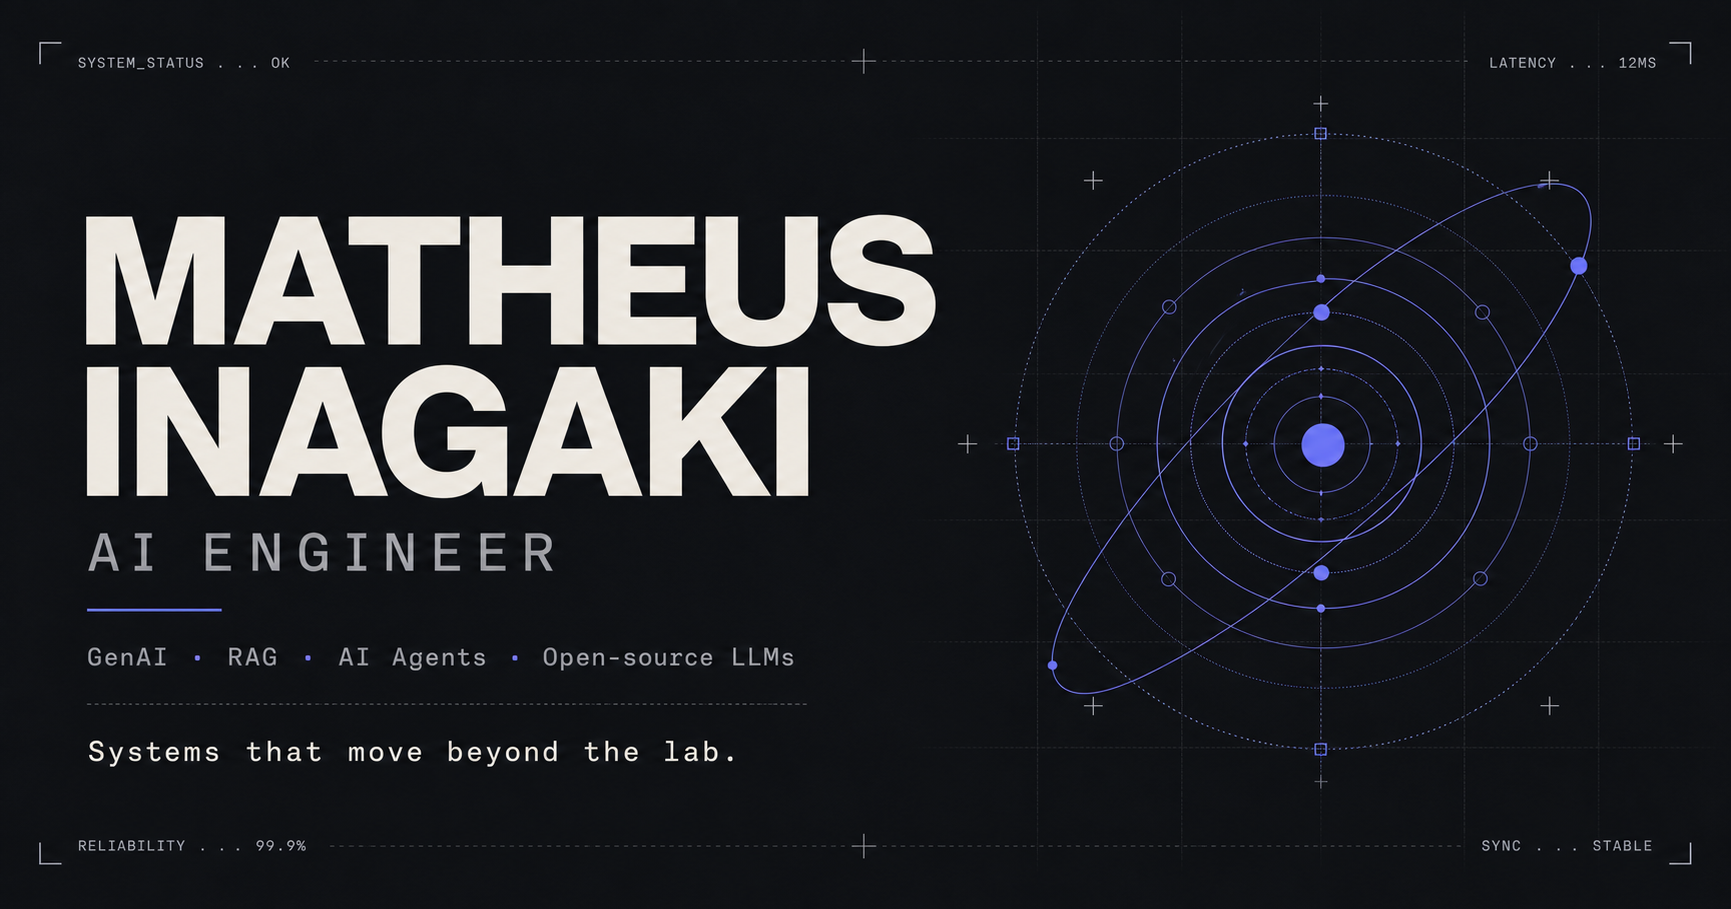
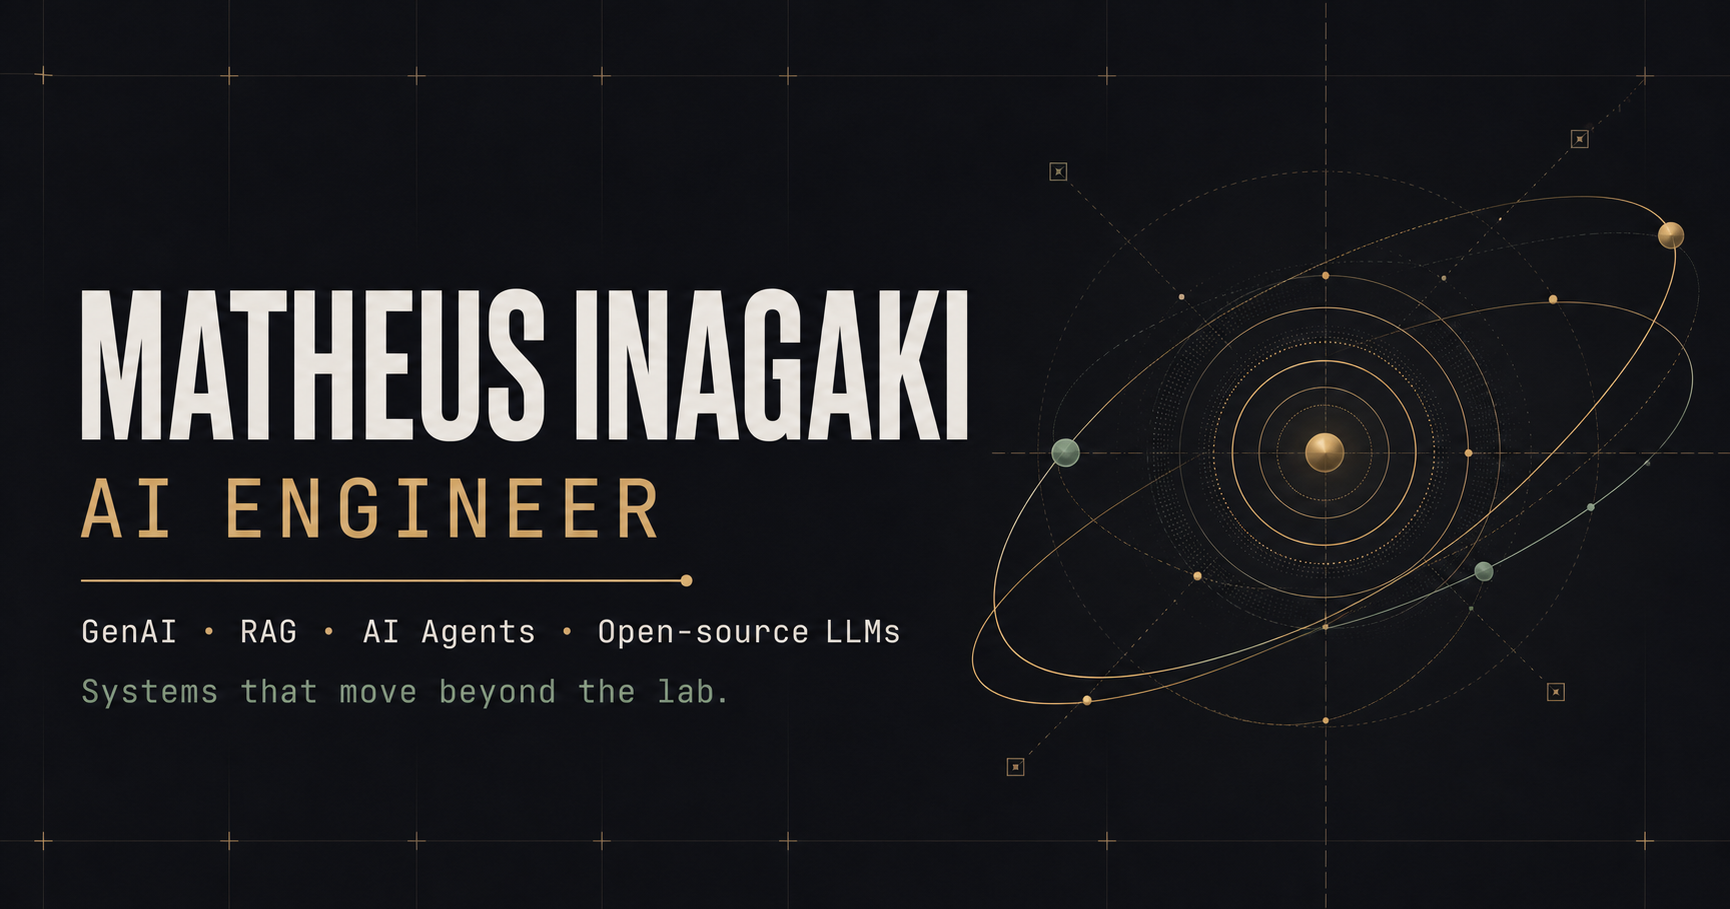
Refine palette and interactive timeline

diff --git a/app/globals.css b/app/globals.css
@@ -10,18 +10,20 @@
   --muted-strong: #b8bdc7;
   --line: rgba(242, 241, 237, 0.1);
   --line-strong: rgba(242, 241, 237, 0.2);
-  --accent: #8995ff;
-  --accent-strong: #aab2ff;
-  --accent-soft: rgba(137, 149, 255, 0.12);
-  --accent-contrast: #0b0c10;
+  --accent: #e2b66f;
+  --accent-strong: #f1cf94;
+  --accent-soft: rgba(226, 182, 111, 0.13);
+  --accent-secondary: #8eae99;
+  --accent-secondary-soft: rgba(142, 174, 153, 0.13);
+  --accent-contrast: #17130d;
   --header: rgba(11, 12, 16, 0.78);
   --grid: rgba(242, 241, 237, 0.035);
-  --glow: rgba(112, 126, 255, 0.17);
+  --glow: rgba(142, 174, 153, 0.15);
   --shadow: 0 30px 90px rgba(0, 0, 0, 0.34);
   --card-hover: rgba(255, 255, 255, 0.025);
   --switch-bg: #eeede9;
   --switch-text: #111218;
-  --contact: #4d59d7;
+  --contact: #405a4a;
   --max: 1240px;
 }
 
@@ -35,18 +37,20 @@
   --muted-strong: #444a55;
   --line: rgba(23, 24, 29, 0.1);
   --line-strong: rgba(23, 24, 29, 0.19);
-  --accent: #4a5be7;
-  --accent-strong: #3144d7;
-  --accent-soft: rgba(74, 91, 231, 0.1);
+  --accent: #a8622f;
+  --accent-strong: #874820;
+  --accent-soft: rgba(168, 98, 47, 0.1);
+  --accent-secondary: #527562;
+  --accent-secondary-soft: rgba(82, 117, 98, 0.11);
   --accent-contrast: #ffffff;
   --header: rgba(245, 244, 240, 0.82);
   --grid: rgba(23, 24, 29, 0.045);
-  --glow: rgba(74, 91, 231, 0.12);
+  --glow: rgba(82, 117, 98, 0.11);
   --shadow: 0 28px 70px rgba(37, 38, 43, 0.1);
   --card-hover: rgba(23, 24, 29, 0.025);
   --switch-bg: #17181d;
   --switch-text: #ffffff;
-  --contact: #4654cf;
+  --contact: #496b57;
 }
 
 * { box-sizing: border-box; }
@@ -105,7 +109,7 @@ section[id] { scroll-margin-top: 92px; }
 .hero-role { margin: 32px 0 17px; color: var(--muted); font: 650 11px/1.2 ui-monospace, SFMono-Regular, Consolas, monospace; letter-spacing: .14em; text-transform: uppercase; }
 h1 { margin: 0; font-size: clamp(48px, 6.05vw, 85px); line-height: .99; letter-spacing: -.065em; font-weight: 680; }
 h1 span { display: block; }
-.accent-line { color: var(--accent); }
+.accent-line { color: var(--accent); background: linear-gradient(90deg, var(--accent), var(--accent-secondary)); background-clip: text; -webkit-background-clip: text; -webkit-text-fill-color: transparent; }
 .hero-description { max-width: 690px; margin: 31px 0 0; color: var(--muted); font-size: clamp(16px, 1.35vw, 19px); line-height: 1.68; letter-spacing: -.012em; }
 .hero-actions, .contact-actions { display: flex; flex-wrap: wrap; gap: 11px; margin-top: 36px; }
 .button { min-height: 52px; display: inline-flex; align-items: center; justify-content: center; gap: 30px; padding: 0 21px; border-radius: 13px; font-size: 13px; font-weight: 720; transition: transform .2s ease, box-shadow .2s ease, background .2s ease, color .2s ease, border-color .2s ease; }
@@ -120,15 +124,15 @@ h1 span { display: block; }
 :root[data-theme="light"] .system-card::before { opacity: .35; }
 .system-topline { display: flex; justify-content: space-between; color: var(--muted); font: 650 9px/1 ui-monospace, SFMono-Regular, Consolas, monospace; letter-spacing: .13em; }
 .orbital-system { position: relative; height: 282px; display: grid; place-items: center; }
-.core-node { position: relative; z-index: 3; width: 76px; height: 76px; display: grid; place-items: center; border-radius: 22px; background: linear-gradient(145deg, var(--accent-strong), var(--accent)); box-shadow: 0 0 55px var(--accent-soft), inset 0 1px 0 rgba(255,255,255,.3); transform: rotate(45deg); }
+.core-node { position: relative; z-index: 3; width: 76px; height: 76px; display: grid; place-items: center; border-radius: 22px; background: linear-gradient(145deg, var(--accent-secondary), var(--accent)); box-shadow: 0 0 55px var(--accent-secondary-soft), inset 0 1px 0 rgba(255,255,255,.3); transform: rotate(45deg); }
 .core-node span { color: var(--accent-contrast); font: 850 18px/1 ui-monospace, monospace; letter-spacing: -.08em; transform: rotate(-45deg); }
-.orbit { position: absolute; border: 1px solid rgba(137,149,255,.28); border-radius: 50%; animation: orbit-spin 14s linear infinite; }
+.orbit { position: absolute; border: 1px solid var(--accent-secondary-soft); border-radius: 50%; animation: orbit-spin 14s linear infinite; }
 .orbit-one { width: 174px; height: 174px; }
 .orbit-two { width: 266px; height: 266px; animation-duration: 22s; animation-direction: reverse; border-style: dashed; }
 .orbit span { position: absolute; width: 9px; height: 9px; top: 50%; left: -5px; border-radius: 50%; background: var(--accent); box-shadow: 0 0 18px var(--accent); }
-.orbit-two span { top: 15%; left: 77%; width: 7px; height: 7px; background: var(--accent-strong); box-shadow: 0 0 18px var(--accent-strong); }
+.orbit-two span { top: 15%; left: 77%; width: 7px; height: 7px; background: var(--accent-secondary); box-shadow: 0 0 18px var(--accent-secondary); }
 .system-status { display: flex; align-items: center; gap: 9px; margin-bottom: 18px; color: var(--muted-strong); font-size: 11px; }
-.status-pulse { width: 7px; height: 7px; border-radius: 50%; background: var(--accent); box-shadow: 0 0 10px var(--accent); }
+.status-pulse { width: 7px; height: 7px; border-radius: 50%; background: var(--accent-secondary); box-shadow: 0 0 10px var(--accent-secondary); }
 .system-list { border-top: 1px solid var(--line); }
 .system-row { min-height: 50px; display: grid; grid-template-columns: 30px 1fr auto; align-items: center; gap: 12px; border-bottom: 1px solid var(--line); font: 650 9px/1 ui-monospace, SFMono-Regular, Consolas, monospace; letter-spacing: .09em; color: var(--muted-strong); }
 .system-row strong { color: var(--muted); font-weight: 520; letter-spacing: 0; text-transform: none; }
@@ -141,7 +145,8 @@ h1 span { display: block; }
 .metric { min-height: 174px; padding: 27px; display: flex; flex-direction: column; justify-content: space-between; border: 1px solid var(--line); border-radius: 18px; background: var(--surface); transition: transform .25s, border-color .25s, background .35s; }
 .metric:hover { transform: translateY(-4px); border-color: var(--line-strong); }
 .metric strong { font-size: clamp(43px, 4.2vw, 62px); line-height: 1; letter-spacing: -.06em; font-weight: 610; color: var(--text); }
-.metric:first-child strong, .metric:nth-child(3) strong { color: var(--accent); }
+.metric:first-child strong { color: var(--accent); }
+.metric:nth-child(3) strong { color: var(--accent-secondary); }
 .metric span { max-width: 190px; color: var(--muted); font-size: 12px; line-height: 1.5; }
 
 .section { max-width: var(--max); margin: 0 auto; padding: 138px 24px; }
@@ -171,12 +176,18 @@ h2 { max-width: 790px; margin: 0; font-size: clamp(40px, 5vw, 68px); font-weight
 
 .experience-section { border-top: 1px solid var(--line); }
 .timeline { margin-top: 20px; }
-.timeline-item { min-height: 250px; display: grid; grid-template-columns: 36px 210px 1fr; gap: 30px; }
-.timeline-rail { position: relative; display: flex; justify-content: center; }
-.timeline-rail::before { content: ""; position: absolute; top: 11px; bottom: -11px; width: 1px; background: var(--line); }
+.timeline-item { position: relative; min-height: 250px; margin: 0 -20px; padding: 20px; display: grid; grid-template-columns: 36px 210px 1fr; gap: 30px; border: 1px solid transparent; border-radius: 22px; transition: background .3s, border-color .3s, box-shadow .3s, transform .3s; }
+.timeline-item:hover { background: var(--card-hover); }
+.timeline-item.selected { background: linear-gradient(110deg, var(--accent-secondary-soft), var(--surface) 48%); border-color: var(--line); box-shadow: 0 18px 55px rgba(0,0,0,.07); transform: translateX(4px); }
+.timeline-hit-area { position: absolute; inset: 0; z-index: 1; border: 0; border-radius: 22px; background: transparent; cursor: pointer; }
+.timeline-hit-area:focus-visible { outline: 2px solid var(--accent); outline-offset: 3px; }
+.timeline-rail, .timeline-period, .timeline-content { position: relative; z-index: 2; pointer-events: none; }
+.timeline-rail { display: flex; justify-content: center; }
+.timeline-rail::before { content: ""; position: absolute; top: -20px; bottom: -20px; width: 1px; background: var(--line); }
+.timeline-item:first-child .timeline-rail::before { top: 11px; }
 .timeline-item:last-child .timeline-rail::before { bottom: calc(100% - 12px); }
-.timeline-rail span { position: relative; z-index: 2; width: 11px; height: 11px; margin-top: 6px; border: 2px solid var(--muted); border-radius: 50%; background: var(--bg); transition: background .35s; }
-.timeline-rail span.active { border-color: var(--accent); box-shadow: 0 0 0 5px var(--accent-soft); }
+.timeline-rail span { position: relative; z-index: 2; width: 11px; height: 11px; margin-top: 6px; border: 2px solid var(--muted); border-radius: 50%; background: var(--bg); transition: background .3s, border-color .3s, box-shadow .3s, transform .3s; }
+.timeline-rail span.active { border-color: var(--accent); background: var(--accent); box-shadow: 0 0 0 5px var(--accent-soft); transform: scale(1.1); }
 .timeline-period { padding-top: 3px; color: var(--muted); font: 560 11px/1.5 ui-monospace, monospace; }
 .timeline-period em { display: block; width: fit-content; margin-top: 13px; padding: 6px 9px; border-radius: 999px; background: var(--accent-soft); color: var(--accent); font-style: normal; font-size: 9px; text-transform: uppercase; letter-spacing: .08em; }
 .timeline-content { padding: 0 0 64px; }
@@ -193,7 +204,7 @@ h2 { max-width: 790px; margin: 0; font-size: clamp(40px, 5vw, 68px); font-weight
 .expertise-card > p { max-width: 500px; margin: 0; color: var(--muted); font-size: 14px; line-height: 1.72; }
 .skill-list { display: flex; flex-wrap: wrap; gap: 8px 12px; margin-top: 37px; }
 .skill-list span { position: relative; padding-left: 12px; color: var(--muted-strong); font-size: 11px; }
-.skill-list span::before { content: ""; position: absolute; left: 0; top: 6px; width: 4px; height: 4px; border-radius: 50%; background: var(--accent); }
+.skill-list span::before { content: ""; position: absolute; left: 0; top: 6px; width: 4px; height: 4px; border-radius: 50%; background: var(--accent-secondary); }
 
 .about-intro { display: grid; grid-template-columns: .6fr 1.15fr .85fr; gap: 50px; align-items: start; margin-bottom: 78px; }
 .about-intro h2 { font-size: clamp(38px, 4.8vw, 64px); }
@@ -210,7 +221,7 @@ h2 { max-width: 790px; margin: 0; font-size: clamp(40px, 5vw, 68px); font-weight
 .language-list div { min-height: 65px; display: flex; align-items: center; justify-content: space-between; gap: 20px; border-top: 1px solid var(--line); }
 .language-list strong { font-size: 14px; font-weight: 610; }
 .language-list span { color: var(--muted); font-size: 11px; text-align: right; }
-.education-year { margin: 57px 0 auto; color: var(--accent); font-size: 54px; font-weight: 610; letter-spacing: -.06em; }
+.education-year { margin: 57px 0 auto; color: var(--accent-secondary); font-size: 54px; font-weight: 610; letter-spacing: -.06em; }
 
 .contact-section { position: relative; min-height: 680px; padding: 130px max(24px, calc((100vw - 950px)) / 2); display: grid; place-items: center; overflow: hidden; background: var(--contact); color: #ffffff; text-align: center; transition: background .35s; }
 .contact-section::before { content: ""; position: absolute; inset: 0; opacity: .22; background-image: linear-gradient(rgba(255,255,255,.1) 1px, transparent 1px), linear-gradient(90deg, rgba(255,255,255,.1) 1px, transparent 1px); background-size: 64px 64px; }
@@ -284,7 +295,8 @@ footer p { text-align: center; }
   .case-metric span { display: block; margin-top: 7px; }
   .case-card h3 { font-size: 25px; }
   .case-card p { font-size: 13px; }
-  .timeline-item { grid-template-columns: 26px 1fr; gap: 16px; }
+  .timeline-item { margin-inline: -8px; padding: 20px 10px; grid-template-columns: 26px 1fr; gap: 16px; border-radius: 18px; }
+  .timeline-item.selected { transform: none; }
   .timeline-period { grid-column: 2; grid-row: 1; }
   .timeline-content { grid-column: 2; grid-row: 2; padding-bottom: 55px; }
   .timeline-rail { grid-row: 1 / 3; }

diff --git a/app/page.tsx b/app/page.tsx
@@ -320,6 +320,7 @@ export default function Home() {
   const [language, setLanguage] = useState<Language>("pt");
   const [theme, setTheme] = useState<Theme>("dark");
   const [menuOpen, setMenuOpen] = useState(false);
+  const [selectedExperience, setSelectedExperience] = useState(0);
   const t = content[language];
 
   useEffect(() => {
@@ -506,10 +507,17 @@ export default function Home() {
               <h2>{t.experienceTitle}</h2>
             </div>
           </div>
-          <div className="timeline">
+          <div className="timeline" role="list">
             {t.experiences.map((item, index) => (
-              <article className="timeline-item reveal" key={`${item.company}-${item.role}`}>
-                <div className="timeline-rail"><span className={index === 0 ? "active" : ""} /></div>
+              <article className={`timeline-item reveal ${selectedExperience === index ? "selected" : ""}`} key={`${item.company}-${item.role}`} role="listitem">
+                <button
+                  className="timeline-hit-area"
+                  type="button"
+                  onClick={() => setSelectedExperience(index)}
+                  aria-pressed={selectedExperience === index}
+                  aria-label={language === "pt" ? `Selecionar experiência: ${item.role}` : `Select experience: ${item.role}`}
+                />
+                <div className="timeline-rail"><span className={selectedExperience === index ? "active" : ""} /></div>
                 <div className="timeline-period">{item.period}{index === 0 && <em>{t.current}</em>}</div>
                 <div className="timeline-content">
                   <p>{item.company}</p><h3>{item.role}</h3><div>{item.copy}</div>
